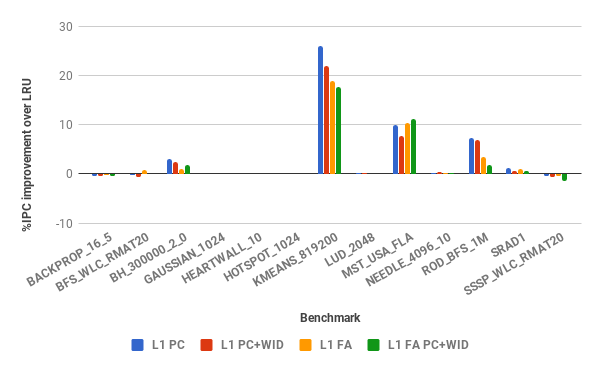
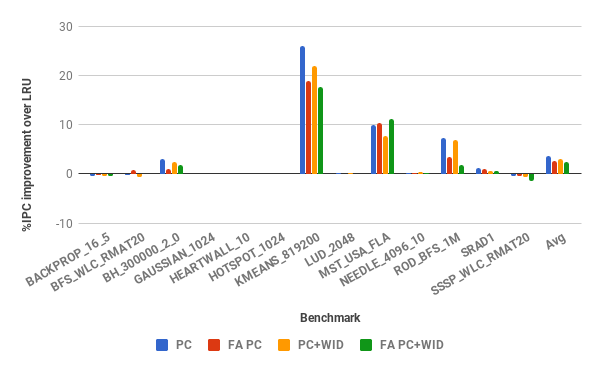
Fix up figs, results section almost done

diff --git a/results.tex b/results.tex
@@ -21,7 +21,7 @@ In order to measure L1 cache sensitivity we quadrupled the size of our L1 cache 
 \section{Hawkeye}
 For evaluating Hawkeye on GPU we first evaluate both PC and PC combined with warp ID as training features by comparing prediction biases. Next we evaluate real performance impact by measuring the change in IPC over our LRU baseline. Overall, we find that Hawkeye does well compared to LRU, though there is no clear winner between our PC and PC+WID features.
 
-To begin, we measured the per-feature bias of the OPTGen algorithm for both the PC and PC+WID features. Per-feature bias essentially tells us the prediction quality of our chosen feature, it tells us how often our predictions on a feature agree with each other. We note that the two hotspot benchmarks have a 100\% per-feature bias. We believe this high bias is caused by a well optimized code base that provides a small amount of PC values (a max of 4 in our simulations). The full set of per-feature biases can be seen in Figure \ref{f:feature_bias}.
+To begin, we measured the per-feature bias of the OPTGen algorithm for both the PC and PC+WID features. Per-feature bias essentially tells us the prediction quality of our chosen feature, it tells us how often our predictions on a feature agree with each other. We note that the two hotspot benchmarks have a 100\% per-feature bias. We believe this high bias is caused by a well optimized code base that provides a small amount of PC values (a max of 4 in our simulations). The full set of per-feature biases for L1 and L2 caches can be seen in Figures \ref{f:l1_bias} and \ref{f:l2_bias} respectively.
 
 \begin{figure}[htb]
 \begin{center}
@@ -39,9 +39,11 @@ To begin, we measured the per-feature bias of the OPTGen algorithm for both the 
 \end{center}
 \end{figure}
 
-While we see that using PC alone does slightly better on average compared to PC+WID, we will show that this does not necessarily correlate with real world prediction performance. In Figure \ref{f:opt_uniq_vals} is a plot of the number of unique values seen per feature. We believe that PC+WID is preferable in some cases because the more diverse feature values allows Hawkeye to capture more complicated access patterns. Though, this large increase in potential feature values requires adequate hardware to track, and more values being trained typically leads to slower training times. In Figure \ref{f:cpu_opt_uniq_vals} we present the number of unique PC values seen by OPTGen when running on a last level cache on a CPU using SPEC 2006 \cite{spec} benchmarks and ChampSim \cite{champsim}. The number of unique values seen for PC+WID on GPU and PC on CPU are roughly on the same order of magnitude. We believe there is more room for feature experimentation, especially involving dynamic warp IDs or better hashing algorithms.
+An important difference between our PC and PC+WID features that's not displayed in our bias metric is the larger number of values being trained on for PC+WID. In Figure \ref{f:opt_uniq_vals} is a plot of the number of unique values seen per feature. This large increase in potential feature values requires adequate hardware to track, and more values being trained typically leads to slower training times. In Figure \ref{f:cpu_opt_uniq_vals} we present the number of unique PC values seen by OPTGen when running on a last level cache on a CPU using SPEC 2006 \cite{spec} benchmarks and ChampSim \cite{champsim}. The number of unique values seen for PC+WID on GPU and PC on CPU are roughly on the same order of magnitude. We believe there is more room for complex feature experimentation, especially involving dynamic warp IDs or better hashing algorithms.
 
-In our full performance tests we measured two important metrics: post-warmup cache miss rate, and IPC improvement over baseline. For the post-warmup miss rate metric, we ignore all cache misses before a specified warmup time, as most misses at the beginning of a program are compulsory and cannot be avoided. We found that a post-warmup time of 3,000,000 cycles fits most of the benchmarks being used (with the exception of HOTSPOT which ends before 3,000,000 cycles). We present the miss rate improvement over LRU in Figure \ref{f:hawkeye_pw_miss_rate}. As mentioned above, PC hashed with warp ID ends up performing better than just PC. We present IPC improvements for L1 and L2 caches in Figures \ref{f:l1_ipc} and \ref{f:l1_ipc} respectively.
+In our full performance tests we measured two important metrics: post-warmup cache miss rate, and IPC improvement over baseline. For the post-warmup miss rate metric, we ignore all cache misses before a specified warmup time, as most misses at the beginning of a program are compulsory and cannot be avoided. We found that a post-warmup time of 3,000,000 cycles fits most of the benchmarks being used (with the exception of HOTSPOT which ends before 3,000,000 cycles). We present the miss rate improvements over LRU for L1 and L2 caches in Figures \ref{f:l1_miss_rate} and \ref{f:l2_miss_rate}. As mentioned above, PC hashed with warp ID ends up performing better than just PC. We present IPC improvements for L1 and L2 caches in Figures \ref{f:l1_ipc} and \ref{f:l2_ipc}.
+
+The performance gains seen at the L1 level are encouraging, as we see significant performance improvements on a few benchmarks. Hawkeye applied to L2 caches gives less significant results, but this is mostly in line with what we found in our cache sensitivity study above. It appears as though, across the board, PC is currently the best feature to use with Hawkeye on GPUs at both the L1 and L2 level. Furthermore, we believe that training OPTgen on a fully-associative cache isn't a good choice as we consistently see performance drops compared to the default OPTGen.
 
 \section{Precleaning}
 

diff --git a/appendix.tex b/appendix.tex
@@ -1,0 +1,57 @@
+\chapter{Hawkeye Experimental Results}
+
+\begin{figure}[htb]
+\begin{center}
+\ \psfig{file=figs/sensitivity.png,width=\textwidth}
+\caption{Cache sensitivity for both L1 and L2 caches.} These numbers are percentage improvements over in IPC over baseline when quadrupling the size of each cache. Replacement for all cases is done with LRU.
+\label{f:sensitivity}
+\end{center}
+\end{figure}
+
+\begin{figure}[htb]
+\begin{center}
+\ \psfig{file=figs/l1_bias.png,width=\textwidth}
+\caption{Average per-feature prediction bias for L1 caches. The bias denotes the percentage of truth values that agree with our predicted value of cache friendly or unfriendly. Here 50\% would be equivalent to a random prediction. The final column denotes our average per-feature bias across all benchmarks.}
+\label{f:l1_bias}
+\end{center}
+\end{figure}
+
+\begin{figure}[htb]
+\begin{center}
+\ \psfig{file=figs/l2_bias.png,width=\textwidth}
+\caption{Average per-feature prediction bias for L2 caches.}
+\label{f:l2_bias}
+\end{center}
+\end{figure}
+
+\begin{figure}[htb]
+\begin{center}
+\ \psfig{file=figs/opt_uniq_vals.png,width=\textwidth}
+\caption{Average unique values per feature at L1 and L2 caches.}
+\label{f:opt_uniq_vals}
+\end{center}
+\end{figure}
+
+\begin{figure}[htb]
+\begin{center}
+\ \psfig{file=figs/cpu_opt_uniq_vals.png,width=\textwidth}
+\caption{Number of unique PC values seen on CPU SPEC Benchmarks. Notice that these numbers are roughly on the same order of magnitude as the number of PC+WID hashed values we see on GPU.}
+\label{f:cpu_opt_uniq_vals}
+\end{center}
+\end{figure}
+
+\begin{figure}[htb]
+\begin{center}
+\ \psfig{file=figs/l1_miss_rate.png,width=\textwidth}
+\caption{Average miss rate improvement over LRU for L1 caches. This improvement is measured in percentage points over the miss rate observed with LRU.}
+\label{f:l1_miss_rate}
+\end{center}
+\end{figure}
+
+\begin{figure}[htb]
+\begin{center}
+\ \psfig{file=figs/l2_miss_rate.png,width=\textwidth}
+\caption{Average miss rate improvement over LRU for L2 caches. This improvement is measured in percentage points over the miss rate observed with LRU.}
+\label{f:l2_miss_rate}
+\end{center}
+\end{figure}
